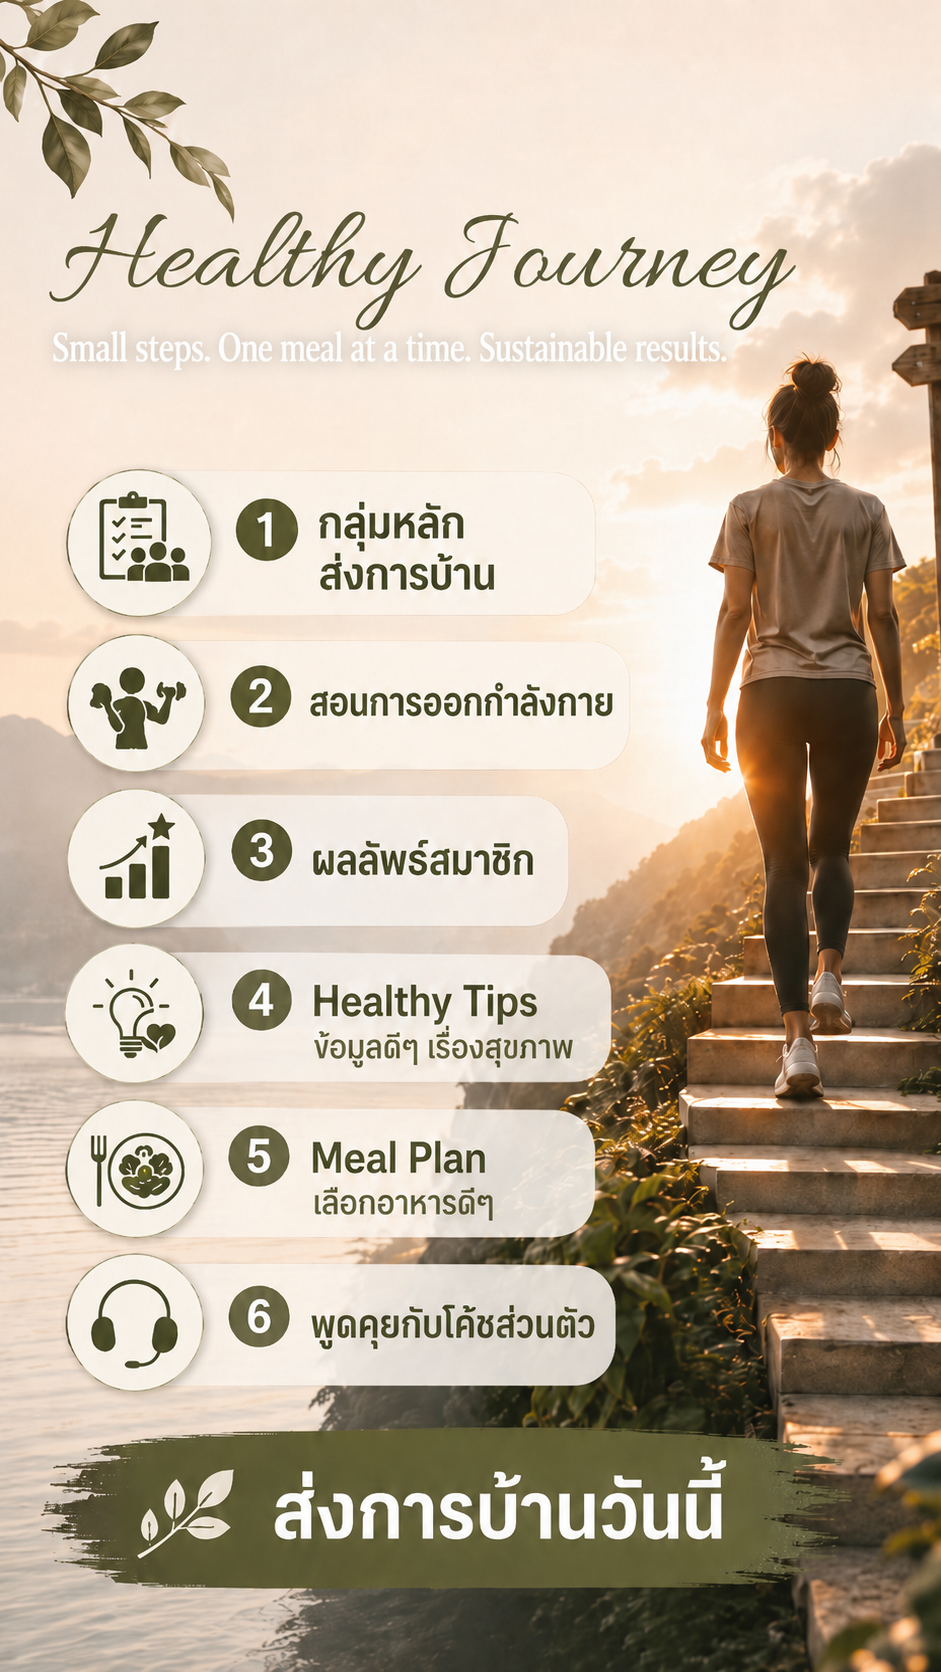
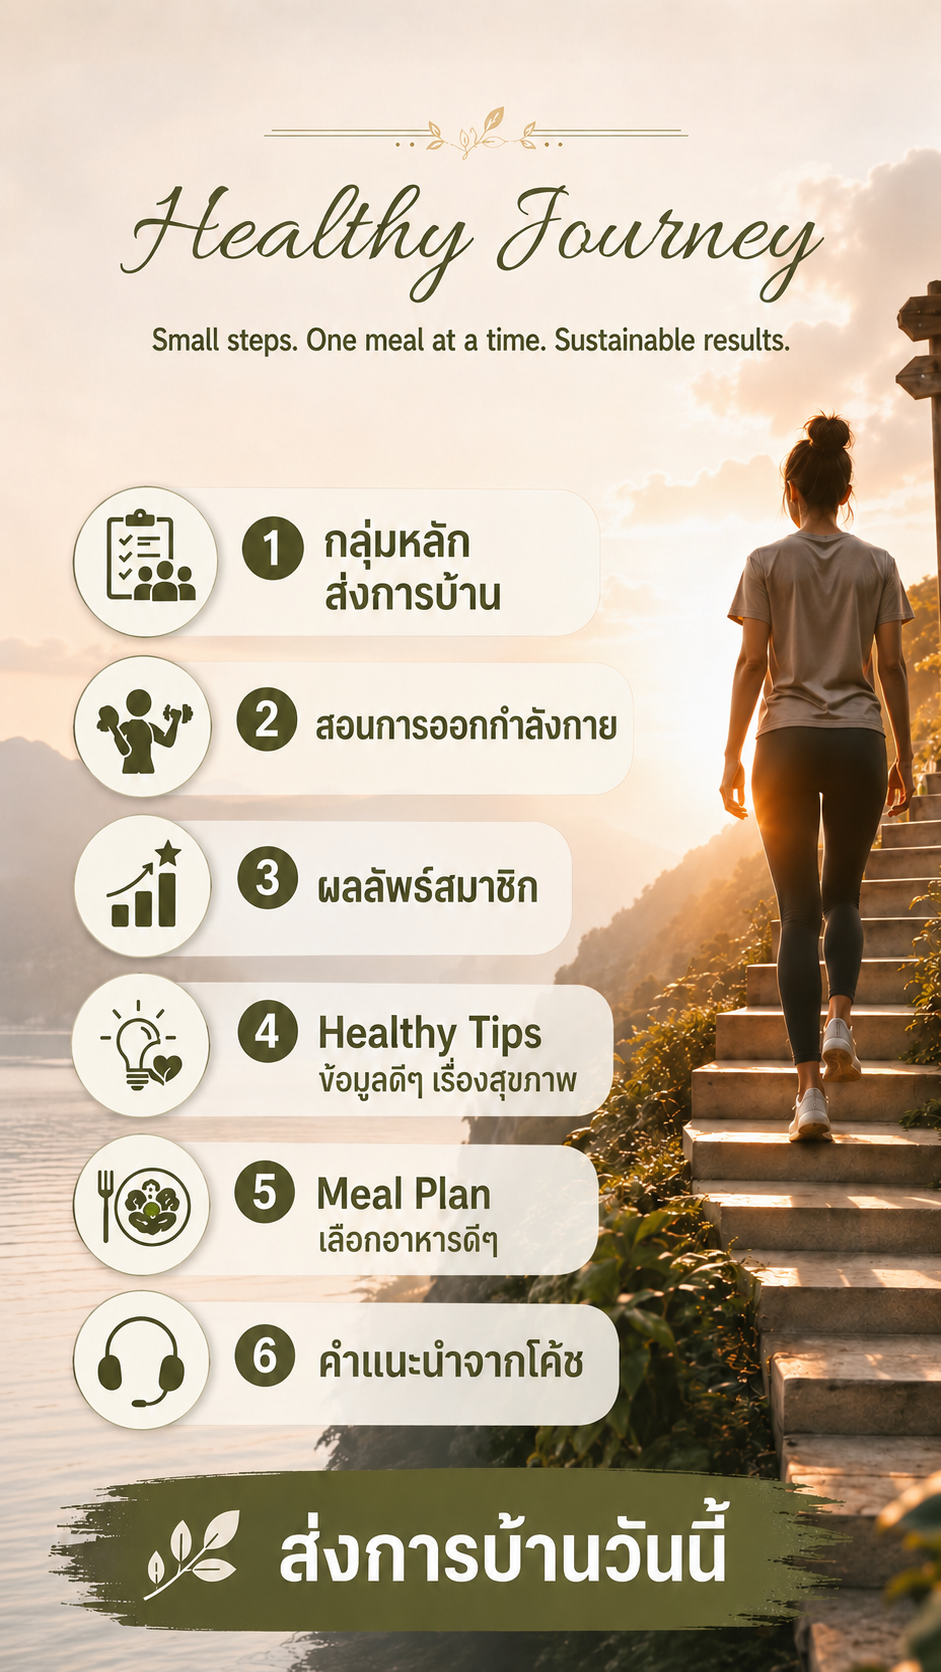
Update member welcome copy and images

diff --git a/src/components/layout/PageHeader.tsx b/src/components/layout/PageHeader.tsx
@@ -1,23 +1,34 @@
 import type { ReactNode } from "react";
 
 type PageHeaderProps = {
-  eyebrow: string;
+  eyebrow?: string;
   title: string;
   subtitle: string;
   action?: ReactNode;
+  subtitleClassName?: string;
+  titleClassName?: string;
 };
 
-export function PageHeader({ eyebrow, title, subtitle, action }: PageHeaderProps) {
+export function PageHeader({
+  eyebrow,
+  title,
+  subtitle,
+  action,
+  subtitleClassName = "text-lg sm:text-xl",
+  titleClassName = "text-5xl sm:text-6xl",
+}: PageHeaderProps) {
   return (
     <header className="flex items-start justify-between gap-4">
       <div className="max-w-3xl">
-        <p className="text-sm font-semibold uppercase tracking-[0.18em] text-[var(--olive)]">
-          {eyebrow}
-        </p>
-        <h1 className="mt-4 text-5xl font-semibold leading-[1.04] text-[var(--olive)] sm:text-6xl">
+        {eyebrow ? (
+          <p className="text-sm font-semibold uppercase tracking-[0.18em] text-[var(--olive)]">
+            {eyebrow}
+          </p>
+        ) : null}
+        <h1 className={`mt-4 font-semibold leading-[1.04] text-[var(--olive)] ${titleClassName}`}>
           {title}
         </h1>
-        <p className="mt-5 max-w-2xl text-lg leading-8 text-[var(--muted)] sm:text-xl">
+        <p className={`mt-5 max-w-2xl whitespace-pre-line leading-8 text-[var(--muted)] ${subtitleClassName}`}>
           {subtitle}
         </p>
       </div>

diff --git a/src/components/layout/MemberPageShell.tsx b/src/components/layout/MemberPageShell.tsx
@@ -3,13 +3,15 @@ import Link from "next/link";
 import { PageHeader } from "@/components/layout/PageHeader";
 
 type MemberPageShellProps = {
-  eyebrow: string;
+  eyebrow?: string;
   title: string;
   subtitle: string;
   backHref: string;
   backLabel: string;
   action?: ReactNode;
   children: ReactNode;
+  subtitleClassName?: string;
+  titleClassName?: string;
 };
 
 export function MemberPageShell({
@@ -20,6 +22,8 @@ export function MemberPageShell({
   backLabel,
   action,
   children,
+  subtitleClassName,
+  titleClassName,
 }: MemberPageShellProps) {
   return (
     <main className="min-h-screen bg-[var(--cream)] px-3 py-3 overflow-hidden sm:px-4 sm:py-4">
@@ -38,7 +42,9 @@ export function MemberPageShell({
             }
             eyebrow={eyebrow}
             subtitle={subtitle}
+            subtitleClassName={subtitleClassName}
             title={title}
+            titleClassName={titleClassName}
           />
         </div>
 

diff --git a/src/app/member/page.tsx b/src/app/member/page.tsx
@@ -90,9 +90,10 @@ export default function MemberPage() {
       }
       backHref="/member/result"
       backLabel="ผลลัพธ์ของฉัน"
-      eyebrow="HEALTHY JOURNEY"
-      subtitle="หน้าเริ่มต้นของสมาชิกสำหรับเข้าห้องส่งการบ้าน ดูคอมมูนิตี้ และติดตามกิจกรรมประจำวัน"
-      title="Member Space"
+      subtitle={"ที่นี่คุณไม่ต้องดูแลตัวเองเพียงลำพัง เราจะค่อยๆ เดินไปด้วยกัน\nทีละมื้อ ทีละวัน พร้อมคำแนะนำ การติดตาม และแรงสนับสนุน เพื่อช่วยให้คุณก้าวไปสู่เป้าหมายได้อย่างมั่นคง"}
+      subtitleClassName="text-[0.9rem] sm:text-base"
+      title="ยินดีต้อนรับสู่ Healthy Journey"
+      titleClassName="text-[1.26rem] sm:text-[1.575rem]"
     >
       <div className="flex h-full min-h-[calc(100vh-7.5rem)] justify-center bg-[var(--cream)] lg:items-start lg:p-6">
         <div className="relative h-full min-h-[calc(100vh-7.5rem)] w-full overflow-hidden bg-[var(--cream)] lg:h-auto lg:min-h-0 lg:max-w-[520px] lg:aspect-[941/1672] lg:rounded-[1.75rem] lg:shadow-[0_24px_60px_rgba(83,96,56,0.16)]">